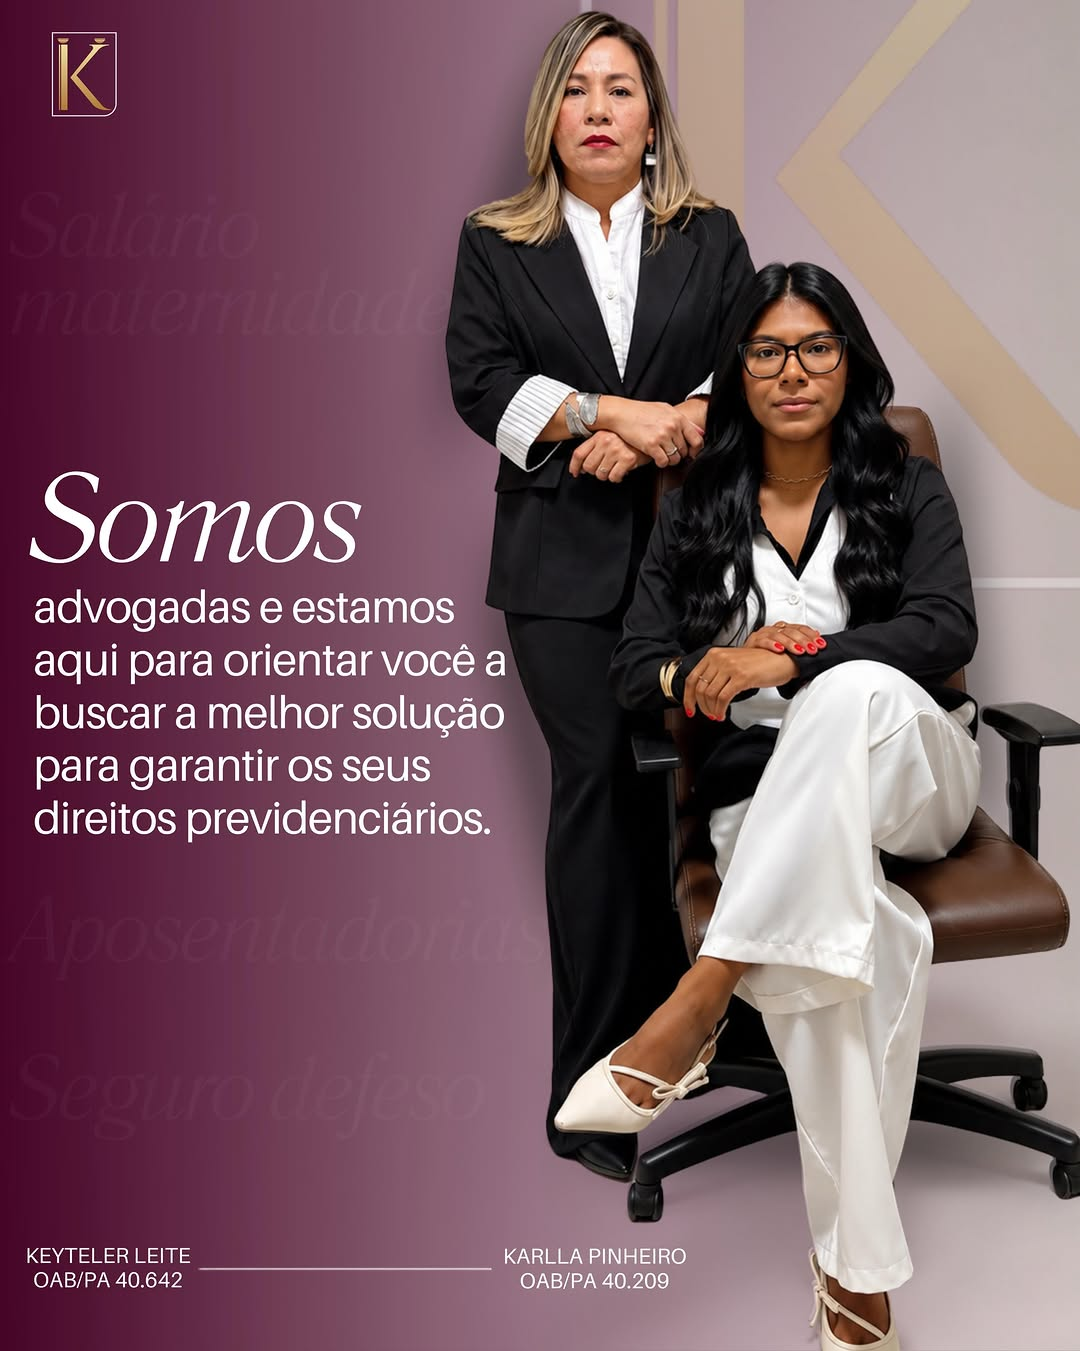
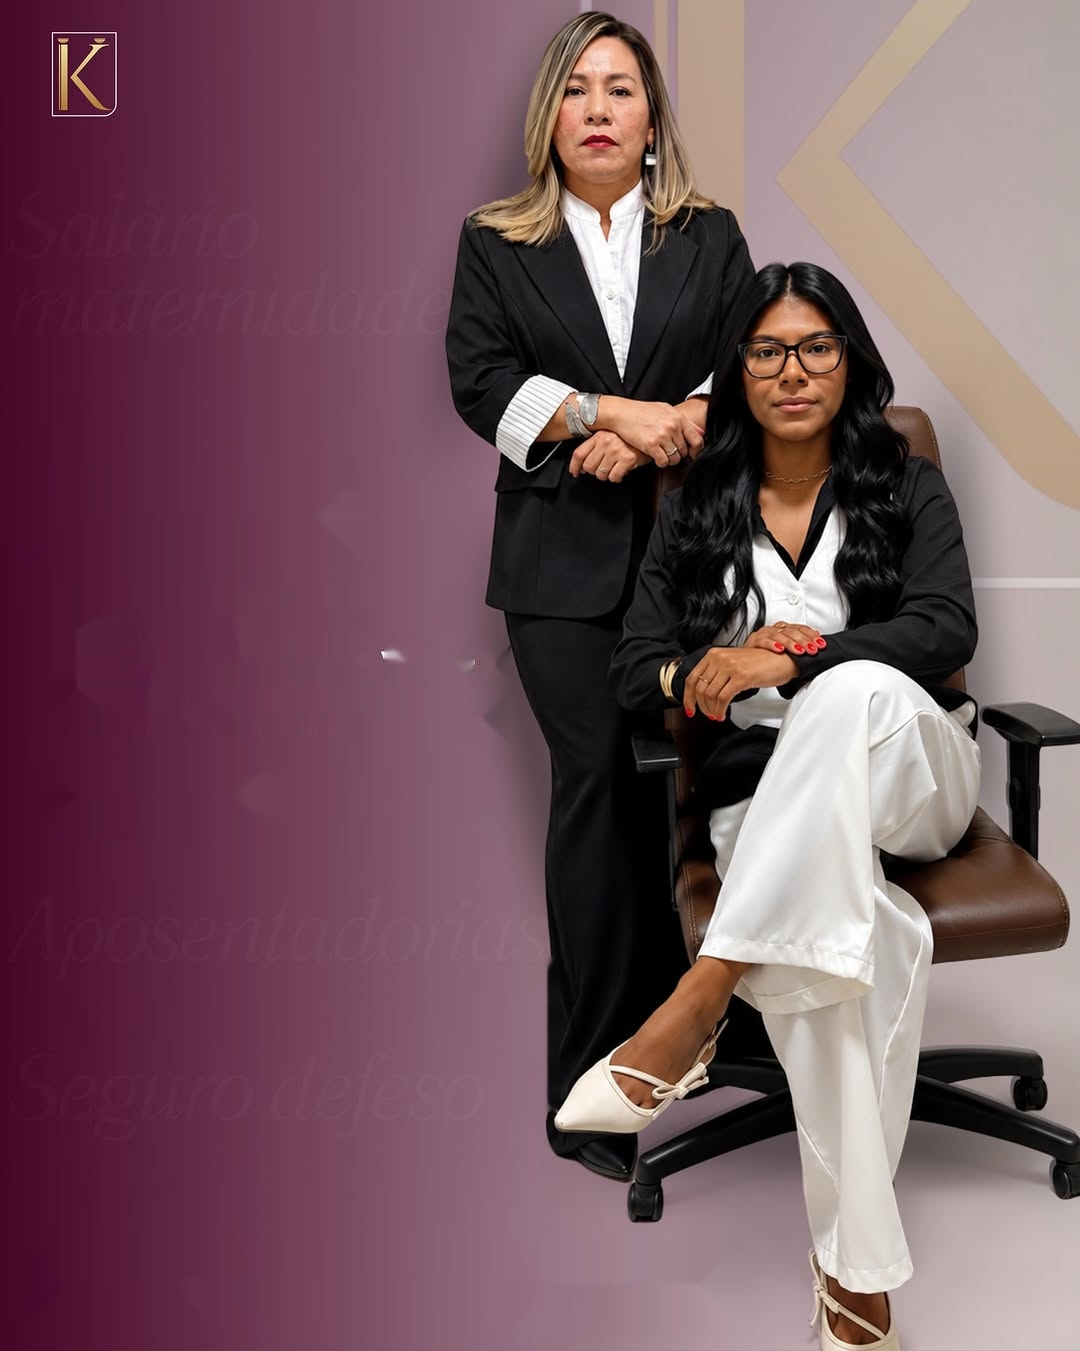
Remove embedded text from institutional photos

diff --git a/scripts/clean_embedded_text.py b/scripts/clean_embedded_text.py
@@ -1,0 +1,112 @@
+from __future__ import annotations
+
+from pathlib import Path
+
+import cv2
+import numpy as np
+import pytesseract
+from pytesseract import Output
+
+ROOT = Path(__file__).resolve().parents[1]
+ASSETS = ROOT / "public" / "assets"
+
+
+def sharpen_subtle(image: np.ndarray) -> np.ndarray:
+    blurred = cv2.GaussianBlur(image, (0, 0), 0.8)
+    return cv2.addWeighted(image, 1.03, blurred, -0.03, 0)
+
+
+def save_jpeg(path: Path, image: np.ndarray) -> None:
+    if not cv2.imwrite(str(path), sharpen_subtle(image), [cv2.IMWRITE_JPEG_QUALITY, 98]):
+        raise RuntimeError(f"Could not write {path}")
+
+
+def clean_portrait(source: Path, output: Path) -> None:
+    image = cv2.imread(str(source), cv2.IMREAD_COLOR)
+    if image is None:
+        raise RuntimeError(f"Could not read {source}")
+    height, width = image.shape[:2]
+    mask = np.zeros((height, width), dtype=np.uint8)
+    mask[int(height * 0.895):int(height * 0.995), int(width * 0.22):int(width * 0.82)] = 255
+    cleaned = cv2.inpaint(image, mask, 18, cv2.INPAINT_NS)
+    save_jpeg(output, cleaned)
+
+
+def ocr_mask_for_team(image: np.ndarray) -> np.ndarray:
+    height, width = image.shape[:2]
+    mask = np.zeros((height, width), dtype=np.uint8)
+    data = pytesseract.image_to_data(image, output_type=Output.DICT, config="--psm 11")
+    for i, text in enumerate(data["text"]):
+        text = text.strip()
+        if not text:
+            continue
+        try:
+            confidence = float(data["conf"][i])
+        except ValueError:
+            confidence = 0
+        x, y = int(data["left"][i]), int(data["top"][i])
+        w, h = int(data["width"][i]), int(data["height"][i])
+        if confidence < 20 or w <= 0 or h <= 0:
+            continue
+        # Preserve the monogram and every pixel of both people. Only accept
+        # OCR boxes in the known left text panel or the bottom caption band.
+        in_left_text_panel = x < int(width * 0.56) and int(height * 0.31) < y < int(height * 0.88)
+        in_bottom_caption = y > int(height * 0.90) and x < int(width * 0.70)
+        if not (in_left_text_panel or in_bottom_caption):
+            continue
+        x0, y0 = max(0, x - 5), max(0, y - 5)
+        x1, y1 = min(width, x + w + 5), min(height, y + h + 5)
+        mask[y0:y1, x0:x1] = 255
+    return mask
+
+
+def local_ghost_mask(image: np.ndarray, rect: tuple[int, int, int, int]) -> np.ndarray:
+    x0, y0, x1, y1 = rect
+    roi = image[y0:y1, x0:x1]
+    gray = cv2.cvtColor(roi, cv2.COLOR_BGR2GRAY)
+    smooth = cv2.GaussianBlur(gray, (0, 0), 11)
+    residual = cv2.absdiff(gray, smooth)
+    mask = ((residual > 4) & (gray < 190)).astype(np.uint8) * 255
+    mask = cv2.morphologyEx(mask, cv2.MORPH_OPEN, np.ones((2, 2), np.uint8))
+    mask = cv2.dilate(mask, np.ones((2, 2), np.uint8), iterations=1)
+    out = np.zeros(image.shape[:2], dtype=np.uint8)
+    out[y0:y1, x0:x1] = mask
+    return out
+
+
+def clean_team(source: Path, output: Path) -> None:
+    image = cv2.imread(str(source), cv2.IMREAD_COLOR)
+    if image is None:
+        raise RuntimeError(f"Could not read {source}")
+    height, width = image.shape[:2]
+    # OCR masks the explicit title, paragraph, names, OABs, and line; local
+    # contrast masks only faint words in the empty left wall. No broad panel or
+    # face-area blur is used, so the people remain pixel-identical.
+    mask = ocr_mask_for_team(image)
+    for rect in [
+        (10, int(image.shape[0] * 0.13), int(image.shape[1] * 0.38), int(image.shape[0] * 0.33)),
+        (10, int(image.shape[0] * 0.67), int(image.shape[1] * 0.38), int(image.shape[0] * 0.87)),
+    ]:
+        mask = np.maximum(mask, local_ghost_mask(image, rect))
+    # Explicit narrow bottom bands remove both names/OABs and the separator;
+    # the right edge stays before the seated subject's white trousers.
+    for x0, y0, x1, y1 in [
+        (18, int(height * 0.915), int(width * 0.20), int(height * 0.985)),
+        (int(width * 0.20), int(height * 0.925), int(width * 0.47), int(height * 0.965)),
+        (int(width * 0.47), int(height * 0.915), int(width * 0.69), int(height * 0.985)),
+    ]:
+        mask[y0:y1, x0:x1] = 255
+    mask = cv2.dilate(mask, np.ones((3, 3), np.uint8), iterations=1)
+    cleaned = cv2.inpaint(image, mask, 8, cv2.INPAINT_NS)
+    save_jpeg(output, cleaned)
+
+
+def main() -> None:
+    clean_team(ASSETS / "foto-oficial-advogadas.jpg", ASSETS / "foto-oficial-advogadas.cleaned.jpg")
+    clean_portrait(ASSETS / "karlla-pinheiro-hero.jpg", ASSETS / "karlla-pinheiro-hero.cleaned.jpg")
+    clean_portrait(ASSETS / "keyteler-leite-hero.jpg", ASSETS / "keyteler-leite-hero.cleaned.jpg")
+    print("Created cleaned JPEG candidates")
+
+
+if __name__ == "__main__":
+    main()

diff --git a/inspection-notes.md b/inspection-notes.md
@@ -29,3 +29,35 @@ A inspeção do DOM público executado após o deploy encontrou três ocorrênci
 Linha de base na versão publicada anterior: performance 83, LCP 3,3 s, CLS 0,00013, FCP 2,8 s e TBT 220 ms.
 
 Versão publicada após o commit `0345087`: performance 85, LCP 3,5 s, CLS 0,00013, FCP 2,9 s e TBT 130 ms. O TBT melhorou em aproximadamente 90 ms e a pontuação subiu dois pontos; LCP e FCP oscilaram levemente, portanto não são apresentados como ganho absoluto. A medição é uma amostra única de Lighthouse e pode variar por rede e cache.
+
+## Correção definitiva do eixo do hero de Serviços
+
+Após o deploy do commit `d2184ea`, a medição no DOM público confirmou o alinhamento: container e texto principal começam em `x=33`; o card começa em `x=788`; o indicador `Atendimento próximo` começa em `x=33`; `Salinópolis / PA` começa em `x=788`; e `Atuação nacional` termina em `x=1233`, coincidente com a borda direita do card. O workflow `32365274280` concluiu com sucesso.
+
+## Centralização do nome da página de Serviços
+
+O texto `Serviços previdenciários em Salinópolis, PA` foi movido para um bloco próprio acima do grid do hero e centralizado em relação ao container total. A validação pública após o commit `4bd514c` mediu o centro do elemento em `x=633` contra o centro da viewport em `x=640`, diferença de apenas 7 px devido ao scrollbar. A captura desktop e a captura mobile confirmaram a centralização visual e a legibilidade.
+
+## Restauração da logo original
+
+A logo original `logo-oficial.png` foi recuperada do histórico do repositório e voltou a ser a referência do componente compartilhado `BRAND_LOGO`. O SVG plano foi removido para evitar duplicidade. O build otimizou a PNG para aproximadamente 307 kB no artefato final.
+
+Após o commit `042fc06` e o workflow `32373992896`, a inspeção pública confirmou a logo original no cabeçalho e no rodapé da Home e da página de Serviços, mantendo também a centralização do título da página secundária.
+
+## Reorganização da primeira dobra de Serviços
+
+A primeira dobra foi reorganizada com uma hierarquia mais clara. O eyebrow agora funciona como marcador editorial central com linhas laterais; o grid do hero foi alinhado pelo topo; o card ganhou índice `01`, rótulo `Comece por aqui`, checklist e CTA contextual `Enviar uma mensagem`; e a faixa inferior recebeu uma linha de separação e espaçamento mais integrado.
+
+A inspeção desktop em `1309x818` confirmou equilíbrio entre título e card, leitura sequencial e CTA contextual. A inspeção mobile em `390x950` confirmou marcador central legível, CTA em largura total e card reorganizado sem sobreposição.
+
+## Validação pública da reorganização do hero
+
+O workflow `32381725977` concluiu com sucesso para o commit `873559d`. A página pública passou a exibir o novo índice `01 Comece por aqui`, o CTA contextual `Enviar uma mensagem`, o marcador editorial com linhas laterais e a faixa inferior com separação visual. A Home e o rodapé continuam usando a logo original PNG.
+
+## Centralização dos indicadores da faixa inferior
+
+Os indicadores `Atendimento próximo`, `Salinópolis / PA` e `Atuação nacional` passaram a ser tratados como um único grupo centralizado, com largura máxima controlada em desktop. No mobile, os três permanecem visíveis, distribuídos com espaçamento compacto e legível. As capturas desktop `1172x760` e mobile `390x950` confirmaram a composição sem sobreposição.
+
+## Restauração das fotos institucionais — candidatos finais
+
+A candidata `foto-oficial-advogadas.cleaned.jpg` foi revisada após várias iterações do script `scripts/clean_embedded_text.py`. A máscara final usa apenas caixas OCR no painel textual esquerdo, máscaras locais para vestígios de baixo contraste e faixas estreitas para a legenda inferior; não há máscara ampla sobre rostos ou corpos. A inspeção visual confirmou a preservação do monograma K, do enquadramento e da identidade, pose e expressão das duas advogadas. O título, parágrafo, nomes, OABs e separador embutidos não aparecem mais na candidata. OCR independente detectou somente artefatos não linguísticos (`IK`, `~`, `a`, `ae`, `/)`), sem palavras institucionais legíveis. Os candidatos dos dois retratos também foram regenerados nas proporções originais (1122×1402); a equipe permanece em 1080×1351. A inspeção visual dos retratos confirmou que o monograma K dourado foi preservado, que as legendas embutidas foram removidas e que não há alteração perceptível de identidade, pose ou expressão. Ainda não substituí os JPG oficiais nem publiquei esta alteração.

diff --git a/asset-audit-notes.md b/asset-audit-notes.md
@@ -9,3 +9,15 @@ A listagem de assets contém somente `abstract-archival-texture.png`, `favicon-1
 A auditoria técnica também mostrou que o arquivo chamado `abstract-archival-texture.png` é identificado pelo sistema como WebP VP8, apesar da extensão PNG, portanto o pipeline deve normalizar esse asset para uma extensão/formato coerente.
 
 Os números visíveis na composição atual são `OAB/PA 40.642` para Keyteler Leite e `OAB/PA 40.209` para Karlla Pinheiro. Eles ainda precisam de confirmação explícita da cliente antes de serem publicados como HTML real.
+
+## Mapeamento visual para restauração
+
+A foto de equipe tem texto concentrado no terço esquerdo e na faixa inferior, enquanto as pessoas ocupam principalmente o centro-direita; o monograma no canto superior esquerdo deve ser preservado. O retrato de Karlla tem apenas a legenda e sublinhado no rodapé, sobre uma área de gradiente vinho/cinza, com o monograma K no canto superior esquerdo preservado. A edição generativa tentou remover os textos, mas alterou identidade, pose e composição; portanto, não será usada como fonte final. A restauração determinística será aplicada somente às áreas de fundo e legenda.
+
+## Validação intermediária das máscaras
+
+A primeira restauração determinística preservou os sujeitos, mas a inspeção visual mostrou resíduos: palavras-fantasma ainda aparecem na foto de equipe, e a legenda inferior da Karlla deixou uma sombra escura. Nenhum desses candidatos será usado sem nova limpeza focada. As áreas inferiores serão reconstruídas por preenchimento suave de gradiente, sem tocar nos sujeitos ou no monograma.
+
+## Candidatos restaurados
+
+Os retratos individuais de Karlla e Keyteler agora estão limpos, sem nome ou sublinhado, com o monograma K preservado e o gradiente inferior contínuo. A foto de equipe preserva as pessoas e remove o texto principal, mas ainda requer refinamento local no fundo esquerdo para eliminar totalmente vestígios e suavizar a transição; ela não será publicada até essa última correção.
